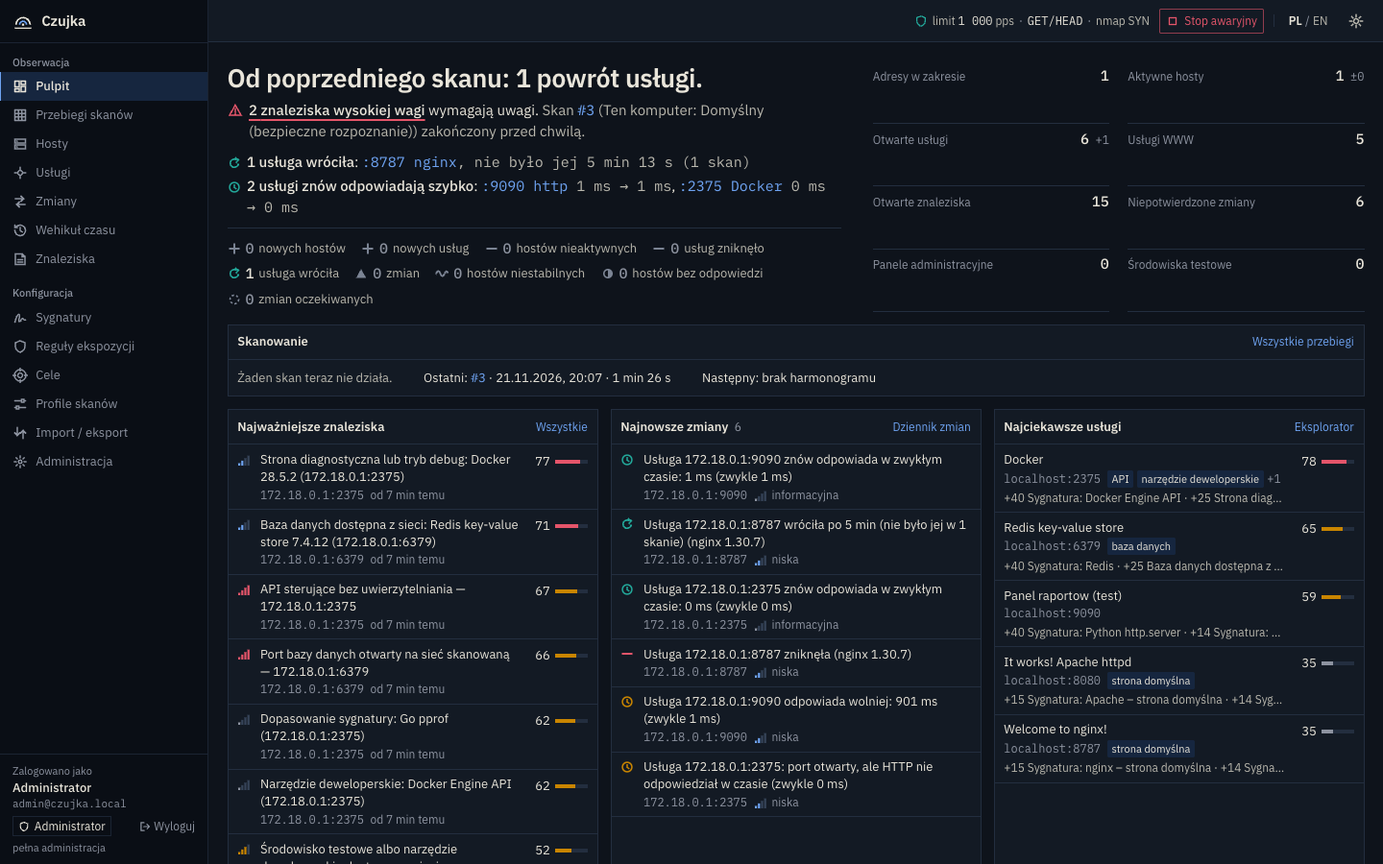
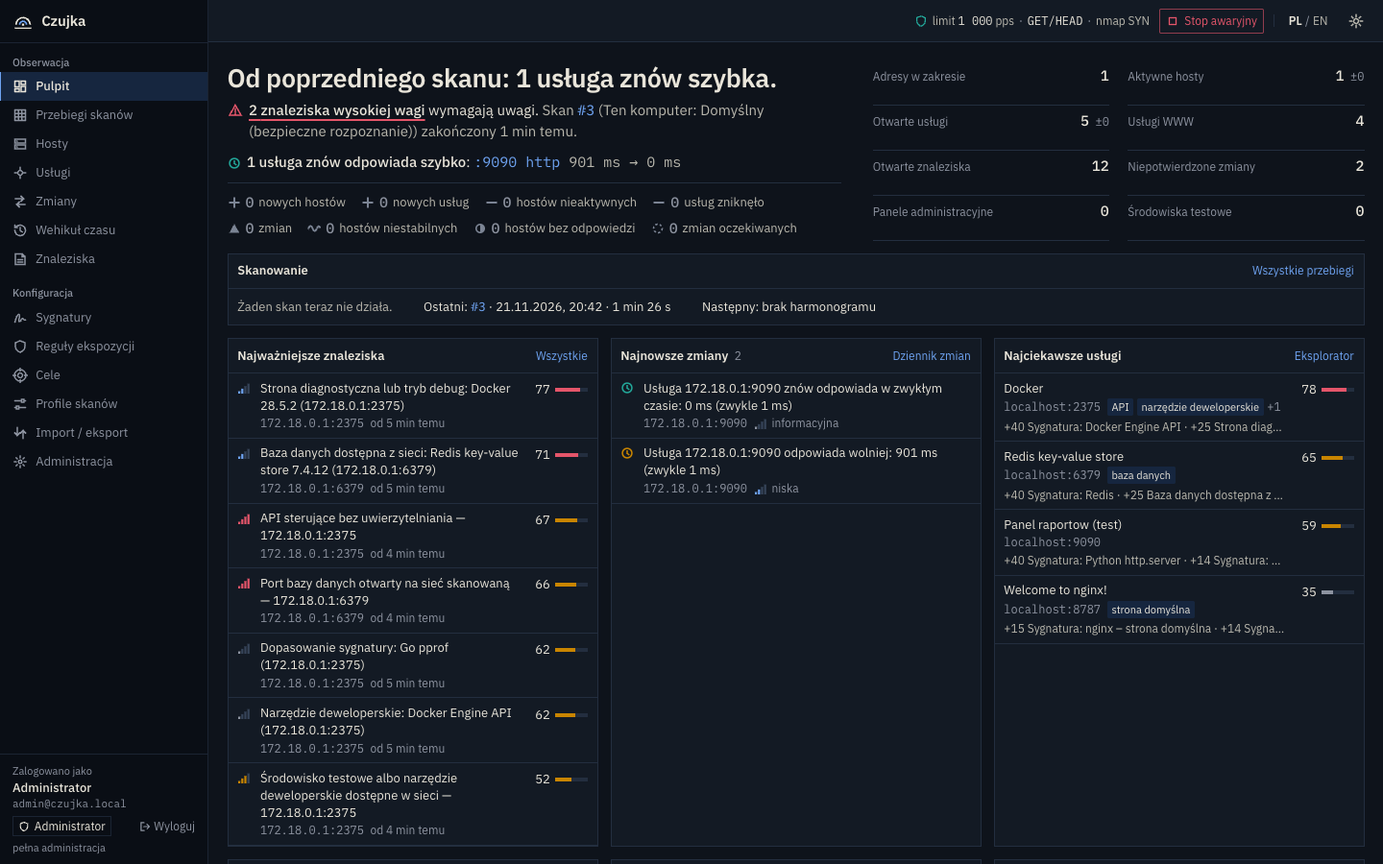
feat(web): a host that stops answering is named with its services and turns into 'zniknął (potwierdzone)' without a click; service_unreachable kind; re-probing on by default in the wizard and the re-probe panel

diff --git a/web/src/pages/Dashboard.tsx b/web/src/pages/Dashboard.tsx
@@ -13,6 +13,7 @@ import { AddressMap } from '../viz/AddressMap';
 import { BarList, PacketCount, ProgressBar, RateGauge, TrendRows } from '../viz/charts';
 import { useSession } from '../session';
 import { RunStory } from '../ui/RunStory';
+import { useHostVerdicts } from '../ui/MissingHosts';
 import { PartialNote, RunPasses } from '../ui/RunPasses';
 import { useArrivalOrder } from '../ui/arrivalOrder';
 import { SMALL_RUN } from './RunDetail';
@@ -42,6 +43,13 @@ function Handover({ d, full }: { d: Dash; full?: ScanRun | null }) {
   const run = full === undefined ? (partial ? null : last) : full;
   const s = run?.summary;
   const expected = (d.recent_changes ?? []).filter((c) => c.expected).length;
+  // Hosts that did not answer in this run, and what the confirmation probe decided since.
+  const missingQ = useItem<Page<Change>>('/changes', { run_id: run?.id, kind: 'host_missing,service_unreachable', limit: 500 }, { enabled: Boolean(run?.id) && (s?.hosts_missing ?? 0) > 0 });
+  const missingItems = missingQ.data?.items ?? [];
+  const verdicts = useHostVerdicts(missingItems.filter((c) => c.kind === 'host_missing'));
+  // services of hosts the confirmation probe has decided about are no longer "not answering"
+  const decidedServices = missingItems.filter((c) => c.kind === 'service_unreachable' && verdicts.has(c.host_id)).length;
+  const confirmedGone = [...verdicts.values()].filter((v) => v.kind === 'host_gone').length;
   if (!run && partial) {
     return (
       <div>
@@ -61,20 +69,20 @@ function Handover({ d, full }: { d: Dash; full?: ScanRun | null }) {
   }
   const baseline = Boolean(s) && !s!.prev_run_id;
   const changed = s ? s.services_changed : 0;
-  const missing = s?.hosts_missing ?? 0;
-  const unreachable = s?.services_unreachable ?? 0;
+  const missing = Math.max(0, (s?.hosts_missing ?? 0) - verdicts.size);
+  const unreachable = Math.max(0, (s?.services_unreachable ?? 0) - decidedServices);
   const added = s ? s.hosts_new + s.services_new : 0;
   const gone = s ? s.hosts_gone + s.services_gone : 0;
   const returned = s?.services_returned ?? 0;
   const slower = s?.responses_slower ?? 0;
   const recovered = s?.by_kind?.response_recovered ?? 0;
-  const quiet = s ? added + gone + changed + s.hosts_unstable + missing + returned + slower + recovered === 0 : true;
+  const quiet = s ? added + gone + changed + s.hosts_unstable + missing + confirmedGone + returned + slower + recovered === 0 : true;
   const open = (d.top_findings ?? []).filter((f) => f.status === 'new' || f.status === 'triaged');
   const important = open.filter((f) => f.severity === 'high' || f.interest >= ATTENTION_INTEREST);
   const panels = adminPanelNames(open);
   const attention = h.admin_panels > 0 || h.findings_high > 0 || important.length > 0;
   const named = (panels.length ? panels : adminPanelServiceNames(d.top_services ?? [])).slice(0, 2);
-  const parts = s ? changeParts({ added, gone, changed, missing, unstable: s.hosts_unstable, returned, slower, recovered }, getLang(), plural) : [];
+  const parts = s ? changeParts({ added, gone, changed, missing, unstable: s.hosts_unstable, returned, slower, recovered, confirmedGone }, getLang(), plural) : [];
   const headline = baseline
     ? t('Pierwszy obraz sieci: ' + fmtInt(h.hosts_up) + ' ' + plural(h.hosts_up, ['aktywny host', 'aktywne hosty', 'aktywnych hostów'], ['', '']) + ', ' + fmtInt(h.services_open) + ' ' + plural(h.services_open, ['otwarta usługa', 'otwarte usługi', 'otwartych usług'], ['', '']) + '.',
       'First picture of the network: ' + fmtInt(h.hosts_up) + ' ' + (h.hosts_up === 1 ? 'host' : 'hosts') + ' up, ' + fmtInt(h.services_open) + ' open ' + (h.services_open === 1 ? 'service' : 'services') + '.')
@@ -128,8 +136,9 @@ function Handover({ d, full }: { d: Dash; full?: ScanRun | null }) {
           {s.responses_slower ? <Count n={s.responses_slower} glyph="slow" tone="changed" label={plural(s.responses_slower, ['wolniejsza odpowiedź', 'wolniejsze odpowiedzi', 'wolniejszych odpowiedzi'], ['slower response', 'slower responses'])} to={'/changes?run_id=' + run.id + '&kind=response_slower'} /> : null}
           <Count n={changed} glyph="delta" tone="changed" label={plural(changed, ['zmiana', 'zmiany', 'zmian'], ['change', 'changes'])} to={'/changes?run_id=' + run.id} />
           <Count n={s.hosts_unstable} glyph="wave" tone="unstable" label={plural(s.hosts_unstable, ['host niestabilny', 'hosty niestabilne', 'hostów niestabilnych'], ['unstable host', 'unstable hosts'])} to={'/hosts?status=unstable'} />
-          <Count n={missing} glyph="half" tone="expected" label={plural(missing, ['host bez odpowiedzi', 'hosty bez odpowiedzi', 'hostów bez odpowiedzi'], ['host missing', 'hosts missing'])} to={'/changes?run_id=' + run.id + '&kind=host_missing'} />
-          {unreachable ? <span className="inline-flex items-center gap-1.5 whitespace-nowrap py-0.5 text-sm text-ink-3" title={t('Usługi hostów, które milczą, ale nie są jeszcze uznane za nieaktywne: stan nieznany, nie zamknięte.', 'Services of silent hosts that are not reported inactive yet: unknown, not closed.')}><span className="num text-base font-medium text-ink-2">{unreachable}</span>{plural(unreachable, ['usługa nieosiągalna', 'usługi nieosiągalne', 'usług nieosiągalnych'], ['service unreachable', 'services unreachable'])}</span> : null}
+          <Count n={missing} glyph="half" tone="expected" label={plural(missing, ['host nie odpowiada (niepotwierdzone)', 'hosty nie odpowiadają (niepotwierdzone)', 'hostów nie odpowiada (niepotwierdzone)'], ['host not answering (unconfirmed)', 'hosts not answering (unconfirmed)'])} to={'/changes?run_id=' + run.id + '&kind=host_missing'} />
+          {unreachable ? <span className="inline-flex items-center gap-1.5 whitespace-nowrap py-0.5 text-sm text-ink-3" title={t('Usługi hostów, które milczą, ale nie są jeszcze uznane za nieaktywne: stan nieznany, nie zamknięte.', 'Services of silent hosts that are not reported inactive yet: unknown, not closed.')}><span className="num text-base font-medium text-ink-2">{unreachable}</span>{plural(unreachable, ['usługa nie odpowiada (niepotwierdzone)', 'usługi nie odpowiadają (niepotwierdzone)', 'usług nie odpowiada (niepotwierdzone)'], ['service not answering (unconfirmed)', 'services not answering (unconfirmed)'])}</span> : null}
+          {confirmedGone ? <Count n={confirmedGone} glyph="minus" tone="gone" label={plural(confirmedGone, ['host zniknął (potwierdzone)', 'hosty zniknęły (potwierdzone)', 'hostów zniknęło (potwierdzone)'], ['host gone (confirmed)', 'hosts gone (confirmed)'])} to={'/changes?kind=host_gone'} /> : null}
           <Count n={expected} glyph="dashring" tone="expected" label={plural(expected, ['zmiana oczekiwana', 'zmiany oczekiwane', 'zmian oczekiwanych'], ['expected change', 'expected changes'])} to={'/changes?run_id=' + run.id + '&expected=true'} />
         </div>
       ) : null}

diff --git a/web/src/ui/MissingHosts.tsx b/web/src/ui/MissingHosts.tsx
@@ -1,0 +1,83 @@
+import { useEffect } from 'react';
+import { Link } from 'react-router';
+import { useQueryClient } from '@tanstack/react-query';
+import { invalidate, useItem } from '../api/hooks';
+import type { Change, Page } from '../api/types';
+import { t, plural } from '../i18n';
+import { fmtTime } from '../lib/format';
+import { Glyph } from './marks';
+
+export type Verdict = { kind: 'host_gone' | 'host_back'; at: string; runId: number };
+
+/**
+ * What a confirmation probe decided about each host that did not answer
+ * (host_missing): the first host_gone or host_back of that host after the
+ * miss. Polls every 5 s while a host still waits, so the page changes from
+ * "nie odpowiada (niepotwierdzone)" to "zniknął (potwierdzone)" without a
+ * click; then it refreshes the dashboard, the runs and the changes.
+ */
+export function useHostVerdicts(missing: Change[]): Map<number, Verdict> {
+  const qc = useQueryClient();
+  const on = missing.length > 0;
+  const since = on ? missing.reduce((a, c) => (c.at < a ? c.at : a), missing[0].at) : '';
+  const q = useItem<Page<Change>>('/changes', { kind: 'host_gone,host_back', limit: 200 }, { enabled: on, refetchInterval: (query) => {
+    const items = (query.state.data as Page<Change> | undefined)?.items ?? [];
+    const open = missing.some((m) => !items.some((c) => c.host_id === m.host_id && c.at > m.at));
+    return open ? 5000 : false;
+  } });
+  const out = new Map<number, Verdict>();
+  for (const m of missing) {
+    const v = (q.data?.items ?? []).filter((c) => c.host_id === m.host_id && c.at > m.at).sort((a, b) => a.at.localeCompare(b.at))[0];
+    if (v) out.set(m.host_id, { kind: v.kind as Verdict['kind'], at: v.at, runId: v.run_id });
+  }
+  const n = out.size;
+  useEffect(() => { if (n > 0) invalidate(qc, '/dashboard', '/runs', '/hosts', '/services'); }, [n, qc]);
+  void since;
+  return out;
+}
+
+/** "(nginx 1.30.7)" from the API sentence of a service_unreachable change, or ''. */
+function nameOf(c: Change): string {
+  const m = /\(([^)]+)\)\s*nie odpowiada/.exec(c.summary ?? '');
+  if (!m) return '';
+  // "redis Redis key-value store" -> "Redis key-value store": the name repeated by the product
+  const [first, ...rest] = m[1].split(' ');
+  return rest.length && rest[0].toLowerCase().startsWith(first.toLowerCase()) ? rest.join(' ') : m[1];
+}
+
+/**
+ * One line per host that did not answer, with the services it had:
+ * "Host 172.30.5.3 nie odpowiada (niepotwierdzone): :80 nginx, :6379 redis",
+ * later "Host 172.30.5.3 zniknął (potwierdzone 20:05): …".
+ */
+export function MissingHostLines({ changes, names }: { changes: Change[]; names?: (c: Change) => string }) {
+  const missing = changes.filter((c) => c.kind === 'host_missing' && !c.expected);
+  const verdicts = useHostVerdicts(missing);
+  if (!missing.length) return null;
+  return (
+    <>
+      {missing.map((m) => {
+        const svcs = changes.filter((c) => c.kind === 'service_unreachable' && c.host_id === m.host_id).sort((a, b) => (a.port ?? 0) - (b.port ?? 0));
+        const v = verdicts.get(m.host_id);
+        const state = !v ? 'unconfirmed' : v.kind === 'host_gone' ? 'gone' : 'back';
+        const head = state === 'unconfirmed'
+          ? t('nie odpowiada (niepotwierdzone)', 'is not answering (unconfirmed)')
+          : state === 'gone'
+            ? t('zniknął (potwierdzone ' + fmtTime(v!.at) + ')', 'is gone (confirmed ' + fmtTime(v!.at) + ')')
+            : t('znów odpowiada (' + fmtTime(v!.at) + ')', 'answers again (' + fmtTime(v!.at) + ')');
+        return (
+          <li key={m.id} className="flex items-start gap-2 text-base" data-testid="missing-host" data-state={state}>
+            <span className="mt-[5px]">{state === 'unconfirmed' ? <Glyph name="half" tone="changed" /> : state === 'gone' ? <Glyph name="minus" tone="gone" /> : <Glyph name="back" tone="new" />}</span>
+            <span className="min-w-0">
+              <span className="font-medium">{t('Host ', 'Host ')}<Link to={'/hosts/' + m.host_id} className="mono link">{m.ip}</Link> {head}</span>
+              {svcs.length ? <>{t(', miał ', ', it had ')}{svcs.length} {plural(svcs.length, ['usługę', 'usługi', 'usług'], ['service', 'services'])}{': '}{svcs.slice(0, 8).map((c, i) => (
+                <span key={c.id}>{i ? ', ' : ''}<Link to={c.service_id ? '/services/' + c.service_id : '/hosts/' + c.host_id} className="mono link">:{c.port}{(names?.(c) || nameOf(c)) ? ' ' + (names?.(c) || nameOf(c)) : ''}</Link></span>
+              ))}{svcs.length > 8 ? t(' i ' + (svcs.length - 8) + ' więcej', ' and ' + (svcs.length - 8) + ' more') : ''}</> : null}
+              {state === 'unconfirmed' ? <span className="block text-xs text-ink-3">{t('Czujka sprawdzi go ponownie za kilka minut i pokaże tu wynik.', 'Czujka checks it again within minutes and shows the result here.')}</span> : null}
+            </span>
+          </li>
+        );
+      })}
+    </>
+  );
+}

diff --git a/web/src/pages/Setup.tsx b/web/src/pages/Setup.tsx
@@ -147,9 +147,9 @@ export default function Setup() {
       id = once.id;
     }
     const run = await post<ScanRun>('/runs', { profile_id: id });
-    // Re-probing is off in a fresh installation. The wizard turns it on when the box stays checked;
-    // a server without the module (404/405/501) does not block the first scan.
-    if (reprobe) await put('/settings/reprobe', { enabled: true }).catch(() => undefined);
+    // Re-probing is on in a fresh installation; an unchecked box turns it off.
+    // A server without the module (404/405/501) does not block the first scan.
+    if (!reprobe) await put('/settings/reprobe', { enabled: false }).catch(() => undefined);
     try { localStorage.setItem(SETUP_DONE_KEY, String(Math.round((Date.now() - startedAt) / 1000))); } catch { /* ignore */ }
     invalidate(qc, '/runs', '/dashboard', '/profiles');
     navigate('/runs/' + run.id, { replace: true });
@@ -264,7 +264,7 @@ export default function Setup() {
           ) : null}
           <div className="mt-3">
             <Check checked={reprobe} onChange={setReprobe} label={t('Sprawdzaj ponownie hosty, które przestały odpowiadać', 'Re-probe hosts that went silent')} />
-            <p className="ml-6 text-xs text-ink-3">{t('Kilka pojedynczych sond na godzinę (domyślnie najwyżej 200 adresów), tylko w oknach profilu, zamiast czekać z potwierdzeniem do następnego pełnego skanu.', 'A few single probes per hour (at most 200 addresses by default), only inside the profile windows, instead of waiting for the next full scan to confirm.')}</p>
+            <p className="ml-6 text-xs text-ink-3">{t('Domyślnie włączone. Host, który przestał odpowiadać, Czujka sprawdza ponownie pojedynczą sondą (nowy host w ciągu kilku minut), tylko w oknach profilu, zamiast czekać z potwierdzeniem do następnego pełnego skanu. Odznacz, aby wyłączyć.', 'On by default. A host that went silent is checked again with a single probe (a new host within minutes), only inside the profile windows, instead of waiting for the next full scan to confirm. Uncheck to turn it off.')}</p>
           </div>
           <div className="mt-4 flex flex-wrap items-center gap-3">
             <Button variant="primary" icon="play" busy={busy} onClick={start} data-testid="setup-start">{t('Uruchom pierwszy skan', 'Start the first scan')}</Button>

diff --git a/web/src/pages/Reprobe.tsx b/web/src/pages/Reprobe.tsx
@@ -53,7 +53,7 @@ export function ReprobePanel({ hostId, limit = 8 }: { hostId?: number; limit?: n
     <Panel title={title} actions={!hostId && canConfigure ? <button type="button" className="link text-xs" onClick={() => setEdit((v) => !v)}>{edit ? t('Zamknij ustawienia', 'Close the settings') : t('Ustawienia', 'Settings')}</button> : undefined}>
       <div data-testid="reprobe-plan">
         {p.blocked && p.enabled ? <p className="mb-2 flex items-start gap-2 text-sm text-danger"><Icon name="stop" size={14} className="mt-0.5" />{p.blocked}</p> : null}
-        {!p.enabled ? <p className="text-sm text-ink-2">{t('Ponowne sprawdzenia są wyłączone. Po włączeniu Czujka sprawdzi pojedyncze hosty, które przestały odpowiadać, zamiast czekać na następny pełny skan.', 'Re-probing is off. When it is on, Czujka checks single hosts that went silent instead of waiting for the next full scan.')}</p> : !hostId ? (
+        {!p.enabled ? <p className="text-sm text-ink-2">{t('Ponowne sprawdzenia zostały wyłączone (w nowej instalacji są włączone). Po ponownym włączeniu Czujka sprawdzi pojedyncze hosty, które przestały odpowiadać, zamiast czekać na następny pełny skan; nowy host w ciągu kilku minut.', 'Re-probing was turned off (a new installation has it on). When it is on again, Czujka checks single hosts that went silent instead of waiting for the next full scan; a new host within minutes.')}</p> : !hostId ? (
           <p className="mb-2 text-xs text-ink-3"><span className="num text-ink">{fmtInt(p.due_now)}</span> {t('do sprawdzenia teraz', 'due now')} · <span className="num text-ink">{fmtInt(p.used_last_hour)}</span> / <span className="num">{fmtInt(p.budget_per_hour)}</span> {t('adresów w ostatniej godzinie', 'addresses in the last hour')}</p>
         ) : null}
         {p.enabled && probes.length === 0 && skipped.length === 0 ? <p className="text-sm text-ink-2">{hostId ? t('Ten host nie czeka na ponowne sprawdzenie.', 'This host is not waiting for a re-probe.') : t('Nic nie czeka na ponowne sprawdzenie. Każdy host odpowiada albo czeka na pełny skan.', 'Nothing waits for a re-probe. Every host answers or waits for the full scan.')}</p> : null}

diff --git a/web/src/lib/headline.ts b/web/src/lib/headline.ts
@@ -30,7 +30,7 @@ export function adminPanelServiceNames(services: { classes: string[] | null; tit
 }
 
 /** Parts of the change sentence, only the counts that are not zero. */
-export function changeParts(c: { added: number; gone: number; changed: number; missing: number; unstable: number; returned?: number; slower?: number; recovered?: number }, lang: 'pl' | 'en', plural: (n: number, pl: [string, string, string], en: [string, string]) => string): string[] {
+export function changeParts(c: { added: number; gone: number; changed: number; missing: number; unstable: number; returned?: number; slower?: number; recovered?: number; confirmedGone?: number }, lang: 'pl' | 'en', plural: (n: number, pl: [string, string, string], en: [string, string]) => string): string[] {
   const parts: string[] = [];
   const add = (n: number, pl: [string, string, string], en: [string, string]) => { if (n > 0) parts.push(n + ' ' + plural(n, pl, en)); };
   void lang;
@@ -40,7 +40,8 @@ export function changeParts(c: { added: number; gone: number; changed: number; m
   add(c.slower ?? 0, ['wolniejsza odpowiedź', 'wolniejsze odpowiedzi', 'wolniejszych odpowiedzi'], ['slower response', 'slower responses']);
   add(c.recovered ?? 0, ['usługa znów szybka', 'usługi znów szybkie', 'usług znów szybkich'], ['service fast again', 'services fast again']);
   add(c.changed, ['zmiana', 'zmiany', 'zmian'], ['change', 'changes']);
-  add(c.missing, ['host bez odpowiedzi', 'hosty bez odpowiedzi', 'hostów bez odpowiedzi'], ['host missing', 'hosts missing']);
+  add(c.confirmedGone ?? 0, ['host zniknął (potwierdzone)', 'hosty zniknęły (potwierdzone)', 'hostów zniknęło (potwierdzone)'], ['host gone (confirmed)', 'hosts gone (confirmed)']);
+  add(c.missing, ['host nie odpowiada (niepotwierdzone)', 'hosty nie odpowiadają (niepotwierdzone)', 'hostów nie odpowiada (niepotwierdzone)'], ['host not answering (unconfirmed)', 'hosts not answering (unconfirmed)']);
   add(c.unstable, ['host niestabilny', 'hosty niestabilne', 'hostów niestabilnych'], ['unstable host', 'unstable hosts']);
   return parts;
 }

diff --git a/web/src/ui/marks.tsx b/web/src/ui/marks.tsx
@@ -69,7 +69,8 @@ export function changeKindInfo(kind: ChangeKind | string): { tone: Tone; glyph: 
     case 'tech_gone': return { tone: 'gone', glyph: 'minus', label: t('technologia zniknęła', 'technology gone'), group: 'gone' };
     case 'host_unstable': return { tone: 'unstable', glyph: 'wave', label: t('host niestabilny', 'host unstable'), group: 'unstable' };
     // Silent in this run, answered in the previous one; not reported inactive yet. Its services are unknown, not gone.
-    case 'host_missing': return { tone: 'expected', glyph: 'half', label: t('brak odpowiedzi', 'host missing'), group: 'unstable' };
+    case 'host_missing': return { tone: 'changed', glyph: 'half', label: t('Nie odpowiada (niepotwierdzone)', 'Not answering (unconfirmed)'), group: 'gone' };
+    case 'service_unreachable': return { tone: 'changed', glyph: 'half', label: t('Usługa nie odpowiada (niepotwierdzone)', 'Service not answering (unconfirmed)'), group: 'gone' };
     case 'service_changed': return { tone: 'changed', glyph: 'delta', label: t('usługa zmieniona', 'service changed'), group: 'changed' };
     case 'tech_version': return { tone: 'changed', glyph: 'delta', label: t('zmiana wersji', 'version changed'), group: 'changed' };
     case 'title_changed': return { tone: 'changed', glyph: 'delta', label: t('zmiana tytułu', 'title changed'), group: 'changed' };
@@ -85,7 +86,7 @@ export function changeKindInfo(kind: ChangeKind | string): { tone: Tone; glyph: 
 }
 
 export const CHANGE_KINDS: ChangeKind[] = [
-  'host_new', 'host_gone', 'host_missing', 'host_back', 'host_unstable', 'service_new', 'service_gone', 'service_returned', 'service_changed',
+  'host_new', 'host_gone', 'host_missing', 'service_unreachable', 'host_back', 'host_unstable', 'service_new', 'service_gone', 'service_returned', 'service_changed',
   'response_slower', 'response_recovered', 'tech_new',
   'tech_gone', 'tech_version', 'title_changed', 'status_changed', 'cert_changed', 'headers_changed', 'cookies_changed',
   'content_changed', 'redirect_changed', 'class_changed',

diff --git a/web/src/pages/Compare.tsx b/web/src/pages/Compare.tsx
@@ -107,7 +107,7 @@ export default function Compare() {
               {d.summary.hosts_missing ? (
                 <span className="mt-1 flex items-start gap-1.5 text-ink-2" data-testid="compare-missing">
                   <Glyph name="half" tone="expected" />
-                  <span><span className="num text-ink">{d.summary.hosts_missing}</span> {plural(d.summary.hosts_missing, ['host nie odpowiedział', 'hosty nie odpowiedziały', 'hostów nie odpowiedziało'], ['host did not answer', 'hosts did not answer'])}{t(', ale nie jest jeszcze uznany za nieaktywny', ' but is not reported inactive yet')}{d.summary.services_unreachable ? <>{t('; ich ', '; their ')}<span className="num text-ink">{d.summary.services_unreachable}</span> {plural(d.summary.services_unreachable, ['usługa jest nieosiągalna', 'usługi są nieosiągalne', 'usług jest nieosiągalnych'], ['service is unreachable', 'services are unreachable'])}{t(' (stan nieznany, nie zamknięte)', ' (unknown, not closed)')}</> : null}. {t('Lista w kolumnie „Zmienione”.', 'They are listed under "Changed".')}</span>
+                  <span><span className="num text-ink">{d.summary.hosts_missing}</span> {plural(d.summary.hosts_missing, ['host nie odpowiada', 'hosty nie odpowiadają', 'hostów nie odpowiada'], ['host is not answering', 'hosts are not answering'])}{t(' (niepotwierdzone: Czujka sprawdzi ponownie)', ' (unconfirmed: Czujka checks again)')}{d.summary.services_unreachable ? <>{t('; ich ', '; their ')}<span className="num text-ink">{d.summary.services_unreachable}</span> {plural(d.summary.services_unreachable, ['usługa nie odpowiada', 'usługi nie odpowiadają', 'usług nie odpowiada'], ['service is not answering', 'services are not answering'])}{t(' (stan nieznany, nie zamknięte)', ' (unknown, not closed)')}</> : null}. {t('Lista w kolumnie „Zniknęły”.', 'They are listed under "Gone".')}</span>
                 </span>
               ) : null}
             </div>

diff --git a/web/src/pages/RunDetail.tsx b/web/src/pages/RunDetail.tsx
@@ -342,7 +342,7 @@ export default function RunDetail() {
                   ['plus', 'new', t('nowe hosty', 'new hosts'), run.summary.hosts_new], ['plus', 'new', t('nowe usługi', 'new services'), run.summary.services_new], ['back', 'new', t('hosty wróciły', 'hosts back'), run.summary.hosts_back], ['returned', 'new', t('usługi wróciły', 'services back'), run.summary.services_returned ?? 0], ['slow', 'changed', t('wolniejsze odpowiedzi', 'slower responses'), run.summary.responses_slower ?? 0],
                   ['minus', 'gone', t('hosty nieaktywne', 'hosts inactive'), run.summary.hosts_gone], ['minus', 'gone', t('usługi zniknęły', 'services gone'), run.summary.services_gone], ['wave', 'unstable', t('hosty niestabilne', 'hosts unstable'), run.summary.hosts_unstable],
                   ['delta', 'changed', t('zmienione usługi', 'changed services'), run.summary.services_changed], ['dot', 'accent', t('nowe znaleziska', 'new findings'), run.summary.findings_new],
-                  ['ring', 'changed', t('hosty bez odpowiedzi', 'hosts missing'), run.summary.hosts_missing ?? 0], ['ring', 'expected', t('usługi nieosiągalne', 'services unreachable'), run.summary.services_unreachable ?? 0],
+                  ['half', 'changed', t('hosty nie odpowiadają (niepotwierdzone)', 'hosts not answering (unconfirmed)'), run.summary.hosts_missing ?? 0], ['half', 'changed', t('usługi nie odpowiadają (niepotwierdzone)', 'services not answering (unconfirmed)'), run.summary.services_unreachable ?? 0],
                 ] as const).map(([g, tone, label, n]) => (
                   <div key={label} className="flex items-center justify-between gap-2 border-b border-rule py-1.5">
                     <dt className="flex items-center gap-1.5 text-sm text-ink-2"><Glyph name={g} tone={n ? tone : 'expected'} />{label}</dt>

diff --git a/web/src/ui/RunStory.tsx b/web/src/ui/RunStory.tsx
@@ -5,6 +5,7 @@ import { t, plural } from '../i18n';
 import { awayText, responseDelta } from '../lib/changeText';
 import { serviceName } from '../lib/serviceName';
 import { Glyph, changeKindInfo } from './marks';
+import { MissingHostLines } from './MissingHosts';
 
 /** The change kinds a person reads as the story of a run, in reading order. */
 const STORY: { kind: string; one: [string, string]; few: [string, string]; many: [string, string]; en: [string, string] }[] = [
@@ -37,15 +38,17 @@ export function RunStory({ runId, className, testId = 'run-story' }: { runId: nu
 /** The story lines for a list of changes (a run, or the diff of two runs). */
 export function StoryList({ changes, runId, className, testId = 'run-story' }: { changes: Change[]; runId?: number; className?: string; testId?: string }) {
   const items = changes.filter((c) => !c.expected && STORY.some((s) => s.kind === c.kind));
+  const anyMissing = changes.some((c) => c.kind === 'host_missing' && !c.expected);
   const hosts = [...new Set(items.map((c) => c.host_id))];
   const oneHost = hosts.length === 1 ? hosts[0] : 0;
   const svcQ = usePage<Service>('/services', { host_id: oneHost || undefined, limit: 500 }, oneHost > 0);
-  if (!items.length) return null;
+  if (!items.length && !anyMissing) return null;
   const svc = new Map<string, Service>();
   for (const s of svcQ.data?.items ?? []) svc.set(s.host_id + ':' + s.port, s);
   const showIp = hosts.length > 1;
   return (
     <ul className={className ?? 'space-y-1'} data-testid={testId}>
+      <MissingHostLines changes={changes} />
       {STORY.map((st) => {
         const list = items.filter((c) => c.kind === st.kind);
         if (!list.length) return null;

diff --git a/web/src/api/hooks.ts b/web/src/api/hooks.ts
@@ -1,4 +1,4 @@
-import { keepPreviousData, useMutation, useQuery, useQueryClient, type QueryClient } from '@tanstack/react-query';
+import { keepPreviousData, useMutation, useQuery, useQueryClient, type QueryClient, type UseQueryOptions } from '@tanstack/react-query';
 import { get, type Query } from './client';
 import type { Page } from './types';
 import { toast, toastError } from '../ui/kit';
@@ -7,7 +7,7 @@ export function usePage<T>(path: string, q?: Query, enabled = true) {
   return useQuery<Page<T>>({ queryKey: [path, q ?? {}], queryFn: () => get<Page<T>>(path, q), placeholderData: keepPreviousData, enabled });
 }
 
-export function useItem<T>(path: string, q?: Query, opts?: { enabled?: boolean; refetchInterval?: number | false; staleTime?: number }) {
+export function useItem<T>(path: string, q?: Query, opts?: { enabled?: boolean; refetchInterval?: UseQueryOptions<T>['refetchInterval']; staleTime?: number }) {
   return useQuery<T>({ queryKey: [path, q ?? {}], queryFn: () => get<T>(path, q), enabled: opts?.enabled ?? true, refetchInterval: opts?.refetchInterval, staleTime: opts?.staleTime });
 }
 

diff --git a/web/src/pages/Changes.tsx b/web/src/pages/Changes.tsx
@@ -79,7 +79,7 @@ export default function Changes() {
         actions={<><ExportButtons kind="changes" query={filters} /><LinkButton to="/changes/compare" icon="compare">{t('Porównaj dwa skany', 'Compare two runs')}</LinkButton></>}
       />
       <div className="flex flex-wrap items-center gap-1.5 border-b border-rule px-4 py-2 sm:px-6" role="group" aria-label={t('Szybkie filtry', 'Quick filters')} data-testid="change-quick">
-        {(['service_gone', 'service_returned', 'service_new', 'response_slower', 'response_recovered'] as const).map((k) => {
+        {(['service_gone', 'host_missing', 'service_unreachable', 'service_returned', 'service_new', 'response_slower', 'response_recovered'] as const).map((k) => {
           const i = changeKindInfo(k);
           const on = u.get('kind') === k;
           return (

diff --git a/web/src/lib/headline.test.ts b/web/src/lib/headline.test.ts
@@ -20,7 +20,8 @@ describe('headline helpers', () => {
     ])).toEqual(['phpMyAdmin', 'Portainer']);
   });
   it('lists only the non-zero change counts', () => {
-    expect(changeParts({ added: 0, gone: 0, changed: 0, missing: 1, unstable: 0 }, 'pl', pl)).toEqual(['1 host bez odpowiedzi']);
+    expect(changeParts({ added: 0, gone: 0, changed: 0, missing: 1, unstable: 0 }, 'pl', pl)).toEqual(['1 host nie odpowiada (niepotwierdzone)']);
+    expect(changeParts({ added: 0, gone: 0, changed: 0, missing: 0, unstable: 0, confirmedGone: 2 }, 'pl', pl)).toEqual(['2 hosty zniknęły (potwierdzone)']);
     expect(changeParts({ added: 96, gone: 2, changed: 0, missing: 0, unstable: 0 }, 'pl', pl)).toEqual(['96 nowych ekspozycji', '2 zniknięcia']);
   });
   it('treats a rate within 5 % of the cap as normal', () => {
